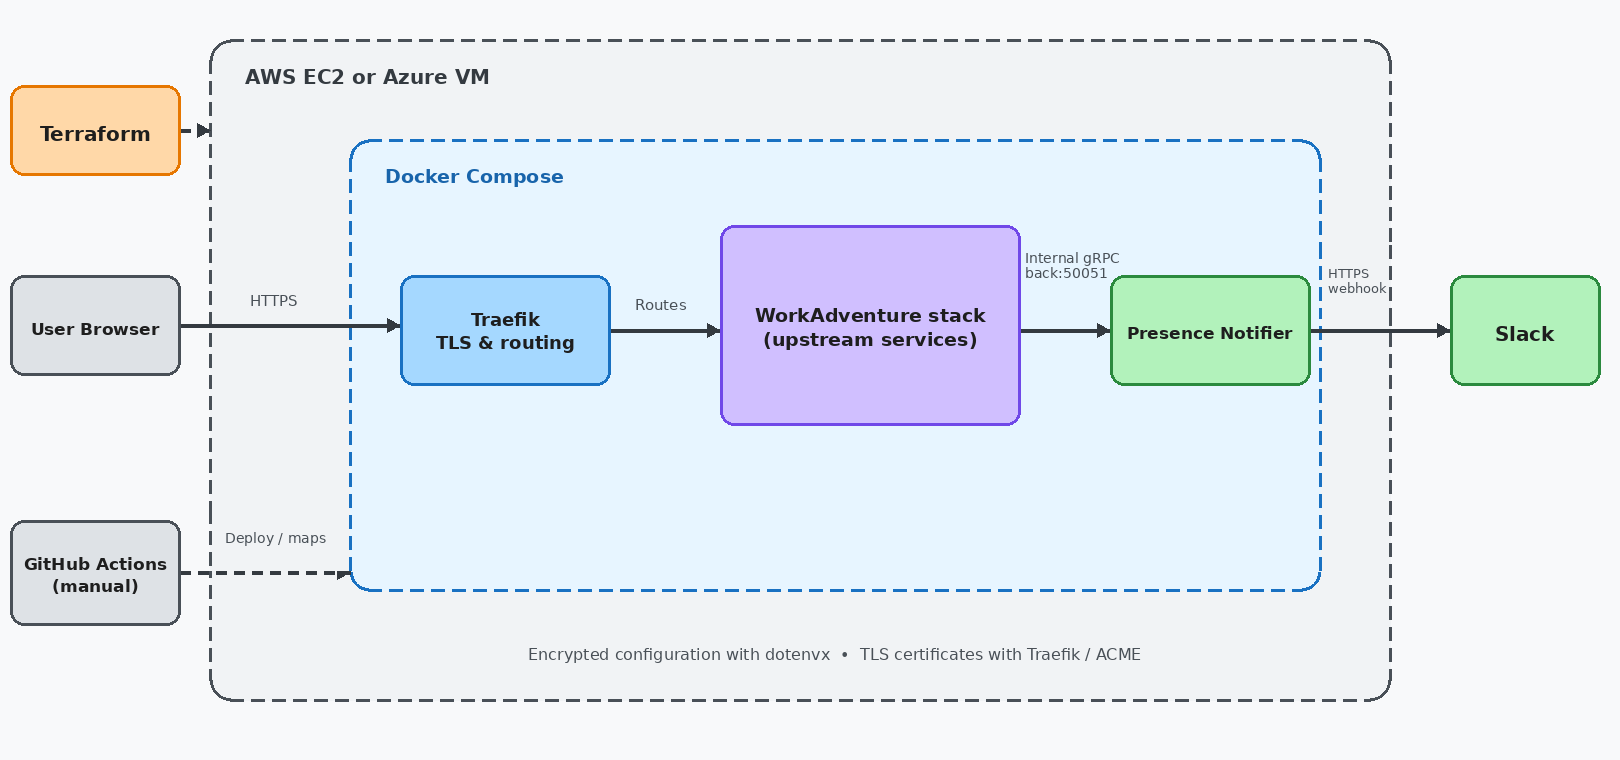
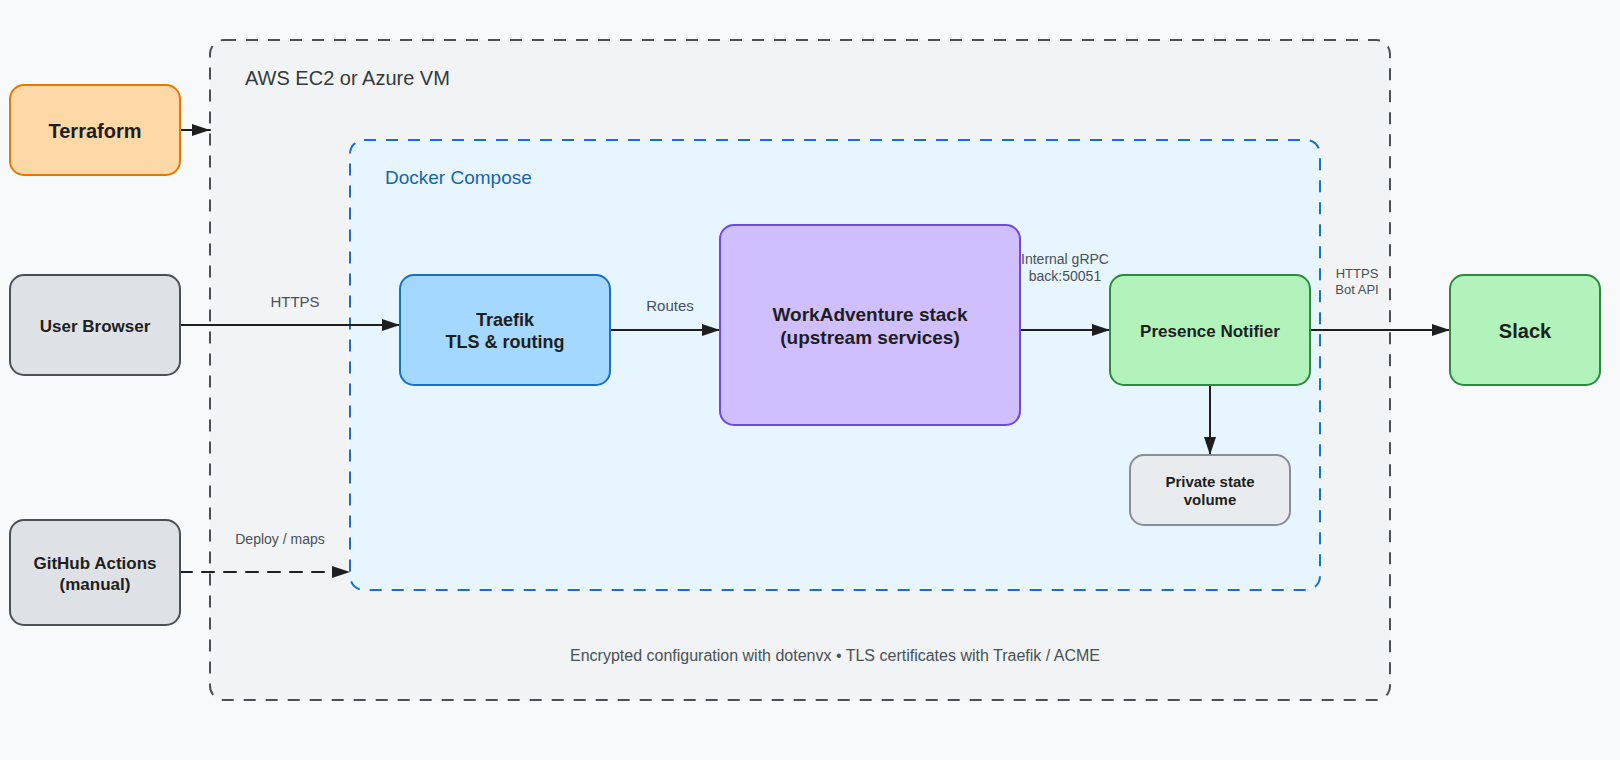
feat: update presence notifier to v0.2 (#20)
* feat: prepare presence notifier v0.2 integration

* docs: keep presence setup release-oriented

* chore: update project dependencies to latest versions

* docs: link notifier Slack setup

* chore: use released presence notifier image

diff --git a/README.md b/README.md
@@ -297,7 +297,9 @@ SSH_PRIVATE_KEY=<SSH_PRIVATE_KEY>
 
 ### Set Up Presence Notifications
 
-The [WorkAdventure Presence Notifier](https://github.com/Arata1202/workadventure-presence-notifier) sends periodic snapshots of the users who are currently online to Slack. The `presence` service connects to the internal `back:50051` gRPC endpoint and does not expose an additional host port.
+The [WorkAdventure Presence Notifier](https://github.com/Arata1202/workadventure-presence-notifier) maintains one event-driven Slack status showing the users who are currently online. The `presence` service connects to the internal `back:50051` gRPC endpoint and does not expose an additional host port.
+
+Complete the notifier's [Slack app setup](https://github.com/Arata1202/workadventure-presence-notifier#slack-app-setup) first. This deployment stores the Bot User OAuth Token in the encrypted `.env` file as `SLACK_BOT_TOKEN` and sets the target channel in `presence/config.yaml`.
 
 ```bash
 # VM
@@ -305,32 +307,35 @@ The [WorkAdventure Presence Notifier](https://github.com/Arata1202/workadventure
 # Move to repository
 cd workadventure-self-hosted
 
-# Edit .env file
+# Edit and encrypt the Bot User OAuth Token
 make decrypt
 vi .env
 make encrypt
 
-# Send one test notification to Slack
+# Pull the pinned public notifier image
+npx dotenvx run -- docker compose pull presence
+
+# Publish one current status and leave it in Slack for validation
 npx dotenvx run -- docker compose run --rm presence \
   --config /etc/presence/config.yaml \
   --once
 
-# Restart server
-make up-f
+# Start or recreate only the notifier daemon
+make up-f P=presence
 
 # View logs
 make logs P=presence
 ```
 
 ```env
-# Required
-SLACK_WEBHOOK_URL=<SLACK_INCOMING_WEBHOOK_URL>
+# Required and secret
+SLACK_BOT_TOKEN=<SLACK_BOT_USER_OAUTH_TOKEN>
 ```
 
-Normal daemon mode waits for the configured interval before sending its first notification. Edit `presence/config.yaml` to change the interval or message templates.
+Normal daemon mode publishes a synchronized non-empty status after startup, debounces presence changes for five seconds, and deletes its status when the office becomes empty or the daemon shuts down cleanly. Edit `presence/config.yaml` to change the debounce, destination, or message template.
 
 > [!NOTE]
-> The notifier sends WorkAdventure display names to the configured Slack workspace. It does not store presence history, IP addresses, coordinates, authentication claims, or tokens. Restrict access to the Slack channel and do not expose the internal gRPC port publicly.
+> The notifier sends WorkAdventure display names to the configured Slack workspace and stores only Slack message references in the private `presence-state` volume. It does not store presence history, IP addresses, coordinates, authentication claims, or tokens. Restrict access to the Slack channel and do not expose the internal gRPC port publicly.
 
 ### Set Up Microsoft Entra ID OIDC
 
